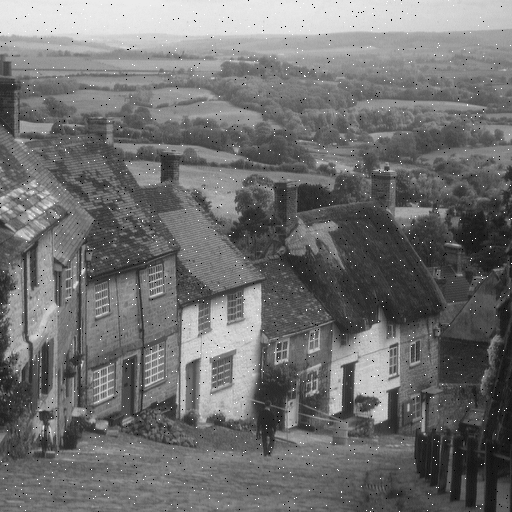
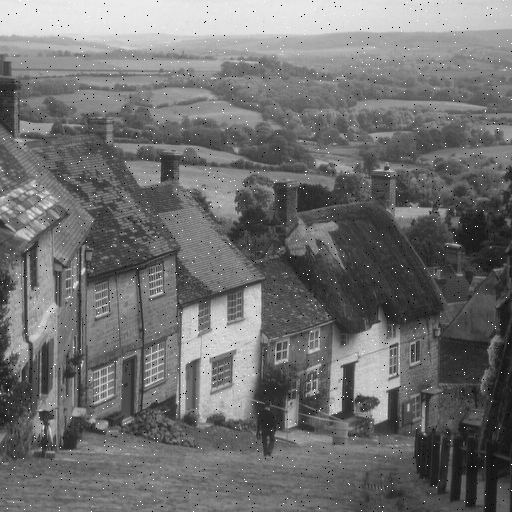
adds contrast stretching distortion and renames script

diff --git a/distortions.py b/distortions.py
@@ -1,0 +1,85 @@
+import cv2
+import numpy as np
+import random
+
+def sp_noise(image,prob):
+    output = np.zeros(image.shape, np.uint8)
+    thres = 1 - prob
+    for i in range(image.shape[0]):
+        for j in range(image.shape[1]):
+            rdn = random.random()
+            if rdn < prob:
+                output[i][j] = 0
+            elif rdn > thres:
+                output[i][j] = 255
+            else:
+                output[i][j] = image[i][j]
+    return output
+
+'''def gauss_noise(image):
+    row,col = image.shape
+    mean = 0
+    gauss = np.random.normal(mean,1,(row,col))
+    gauss = gauss.reshape(row,col)
+    noisy = image + gauss
+    return noisy
+
+
+   def gauss_noise(image,prob):
+    img_ = image.copy()
+    noise = np.random.normal(0,1,[img_.shape[0],img_.shape[1]])
+    print(noise)
+    noisy_img = img_+noise
+    for i in range(img_.shape[0]):
+        for j in range(img_.shape[1]):
+            if noisy_img[i][j] > 1:
+                noisy_img[i][j] = 1
+            elif noisy_img[i][j] < 0:
+                noisy_img[i][j] = 0
+    for i in range(img_.shape[0]):
+        for j in range(img_.shape[1]):
+            noisy_img[i][j] = noisy_img[i][j]*3
+    return noisy_img
+
+
+   def gauss(image):
+    row,col = image.shape
+    mean = 1
+    gauss = np.random.normal(mean,1,(row,col))
+    gauss = gauss.reshape(row,col)
+    noisy = image+gauss
+    return noisy
+
+
+   def speckle(image):
+    row,col = image.shape
+    gauss = np.random.randn(row,col)
+    gauss = gauss.reshape(row,col)
+    noisy = image + image*gauss
+    return noisy
+'''
+
+def contrast_stretching(image):
+    output = np.zeros(image.shape, np.uint8)
+    max_int = image.max()
+    min_int = image.min()
+    for i in range(image.shape[0]):
+        for j in range(image.shape[1]):
+            output[i][j] = ((image[i][j]-min_int)/(max_int - min_int))*255
+    return output
+
+
+img = cv2.imread('imgs/Image42.png',0)
+#encode_param = [int(cv2.IMWRITE_JPEG_QUALITY), 95]
+#result, encimg = cv2.imencode('.jpg', img, encode_param)
+#cv2.imwrite('imgs/jpeg_comp.png',encimg)
+#gauss_img = gauss(img)
+#cv2.imwrite('imgs/gauss.png',gauss_img)
+cs_image = contrast_stretching(img)
+cv2.imwrite('imgs/cs.png',cs_image)
+#speckle_img = speckle(img)
+#cv2.imwrite('imgs/speckle.png',speckle_img)
+blur = cv2.blur(img,(5,5))
+cv2.imwrite('imgs/blur.png',blur)
+sp_img = sp_noise(img,0.004)
+cv2.imwrite('imgs/sp.png',sp_img)
